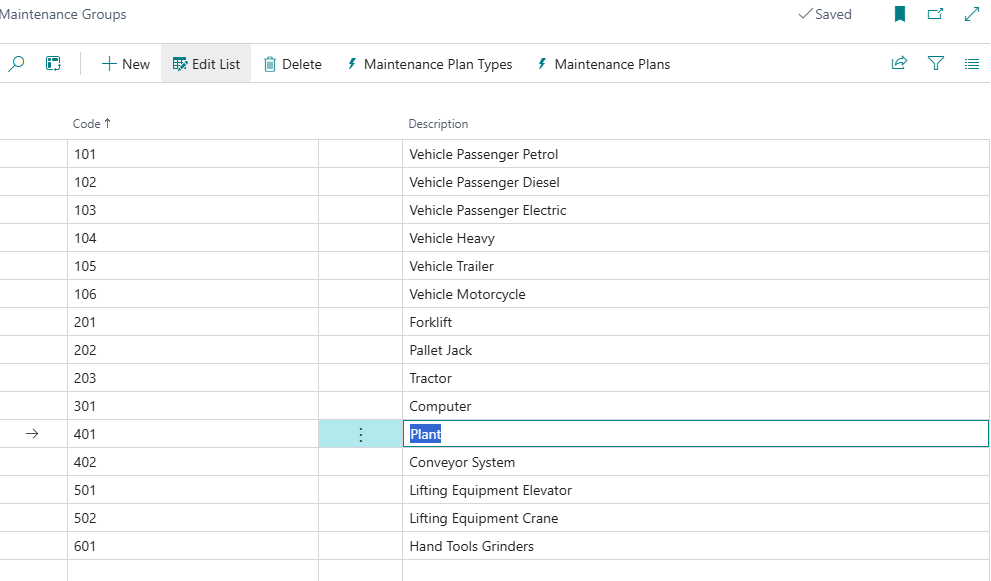
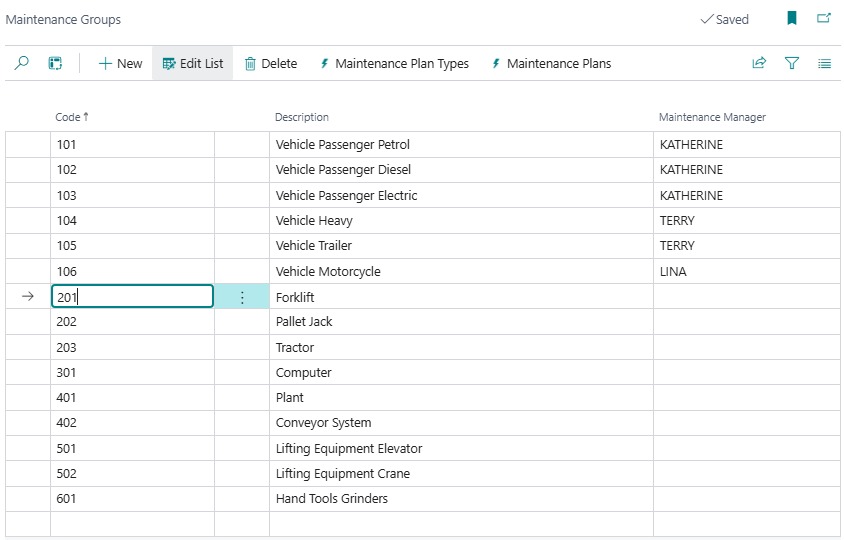
add manager

diff --git a/Setup-Configuration.md b/Setup-Configuration.md
@@ -52,9 +52,10 @@ Maintenance plan types define broad categories of maintenance, for example inspe
 From FA Maintenance Setup, select 'Maintenance Plan Types'.
 From the Maintenance Plan Types list, add or edit the entries:
 
-![alt text](/Screenshots/MaintenancPlanTypes.png)
+![alt text](/Screenshots/MaintenancePlanTypes.png)
 
 Enter a code and description, and select a maintenance category from the available list.
+Optionally, add the person responsible for managing the maintenance of assets belo
 
 ## Maintenance Groups
 Maintenance groups are used to group a set of fixed assets together, based on common properties. The group can be used to associate typical maintenance activities with specific assets.